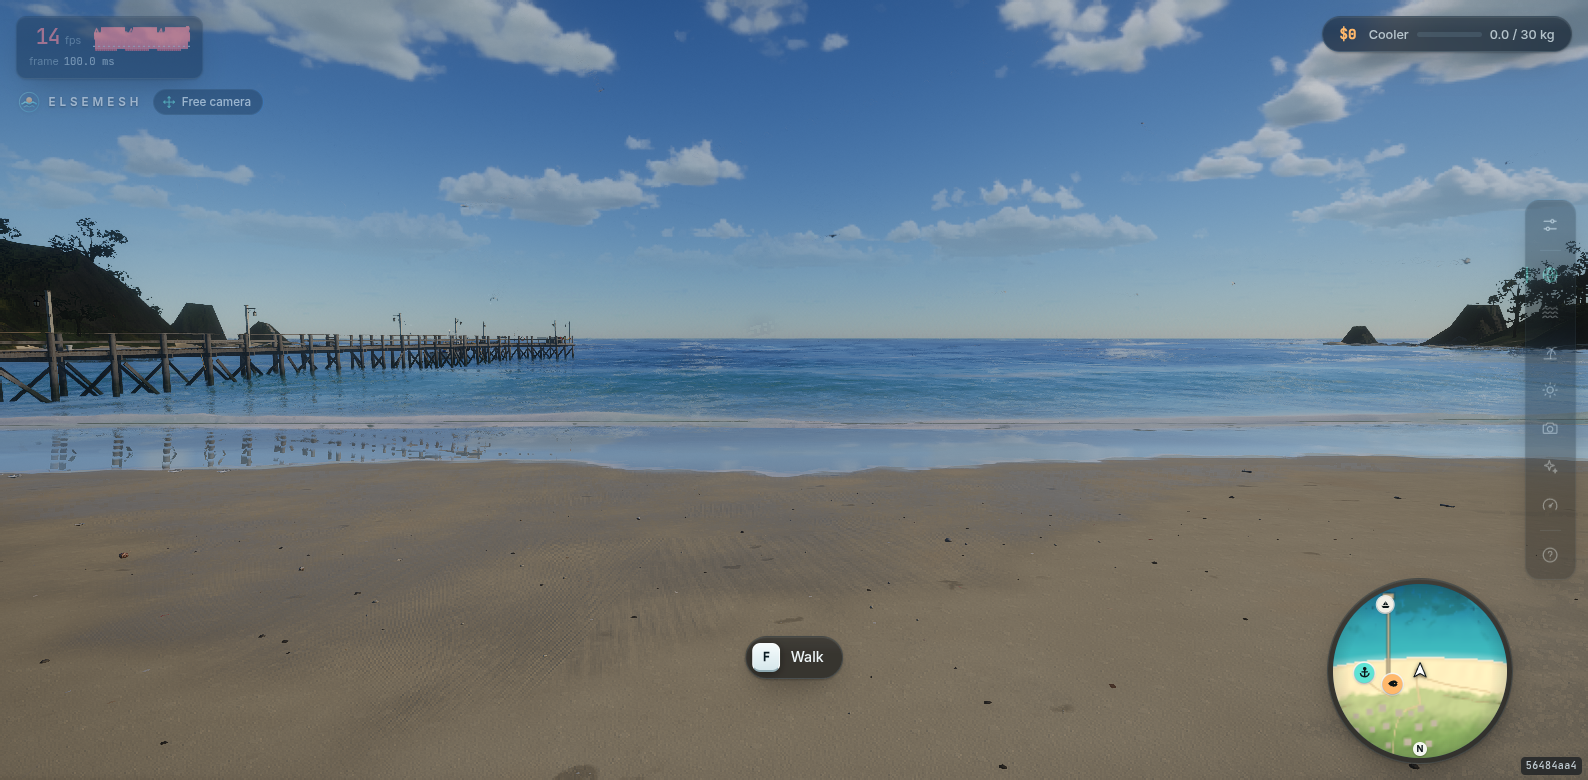
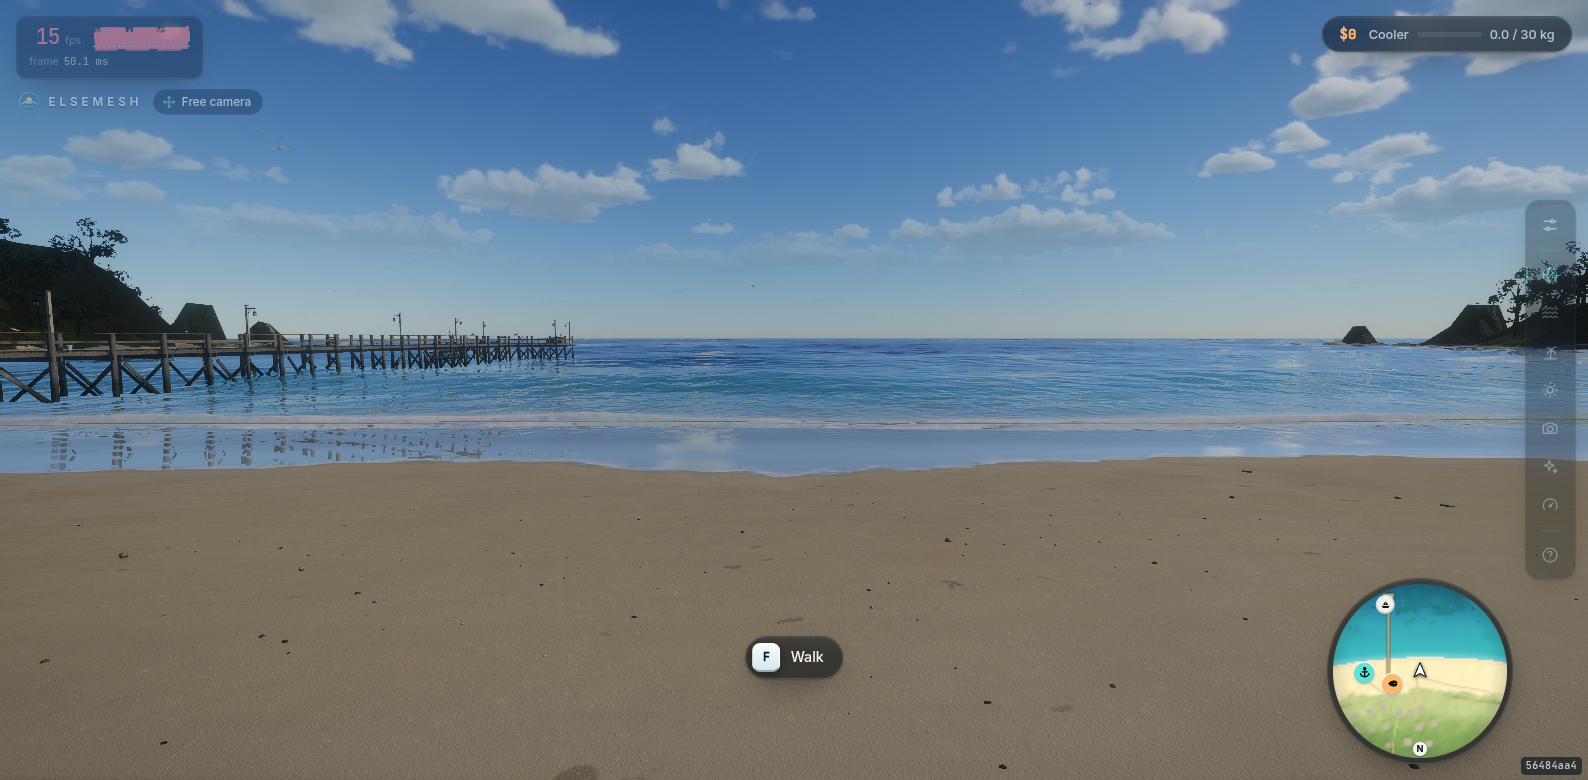
docs(parity): correct Tidewater render captures

diff --git a/SPLIT-progress.md b/SPLIT-progress.md
@@ -74,7 +74,7 @@ WebGPU visual parity remain incomplete.
 
 ## Current work and next gates
 
-- 2026-11-08: captured one live `beach` view for split WebGPU (`7f2025c6`), split WebGL, and pre-split WebGPU (`23c30bf`) in the isolated Weston display. Each canvas viewport was 1588×780; the named view set time of day to 16.2, and simulation time was held at 30. The pre-split revision predates the `simtime` URL option, so its `G.time` value was pinned through CDP for this snapshot. The images show a substantial WebGL detail difference and visible shoreline/color differences between split and pre-split WebGPU. This is a single-frame visual check, not time-series wave/spray parity or an FPS benchmark; estimates remain 60% renderer-neutral and 87% gameplay/content parity. Captures: [split WebGPU](docs/images/tidewater-beach-split-webgpu-2026-11-08.png), [split WebGL](docs/images/tidewater-beach-split-webgl-2026-11-08.png), [pre-split WebGPU at 23c30bf](docs/images/tidewater-beach-presplit-webgpu-23c30bf-2026-11-08.png).
+- 2026-11-08: corrected the matched `beach` snapshots after finding that the first pre-split capture pinned `G.time` but left `OceanFFT.time` advancing. The replacement 1588×780 captures hold both clocks at 30, use the same `beach` camera and 16.2 time of day, set exposure to 0.55, and disable auto exposure; the pre-split revision predates the `simtime` URL option, so both of its clocks were pinned through CDP. The WebGPU and WebGL split captures use visual-quality mode. Scene differences remain visible between split and pre-split WebGPU, and WebGL still shows a substantial content-detail difference. These are single frames, not time-series wave/spray parity or an FPS benchmark; estimates remain 60% renderer-neutral and 87% gameplay/content parity. The top-left graph is shared by both backends; its color and trace height reflect each renderer's measured FPS and frame gaps. Captures: [split WebGPU](docs/images/tidewater-beach-split-webgpu-2026-11-08.png), [split WebGL](docs/images/tidewater-beach-split-webgl-2026-11-08.png), [pre-split WebGPU at 23c30bf](docs/images/tidewater-beach-presplit-webgpu-23c30bf-2026-11-08.png).
 - 2026-11-08: moved Tidewater's shoreline debris palette, packed wood/hard
   material data, and net-float geometry into the Tidewater package. The shape
   module no longer imports engine-world Props or village GeoBuilder code; its
